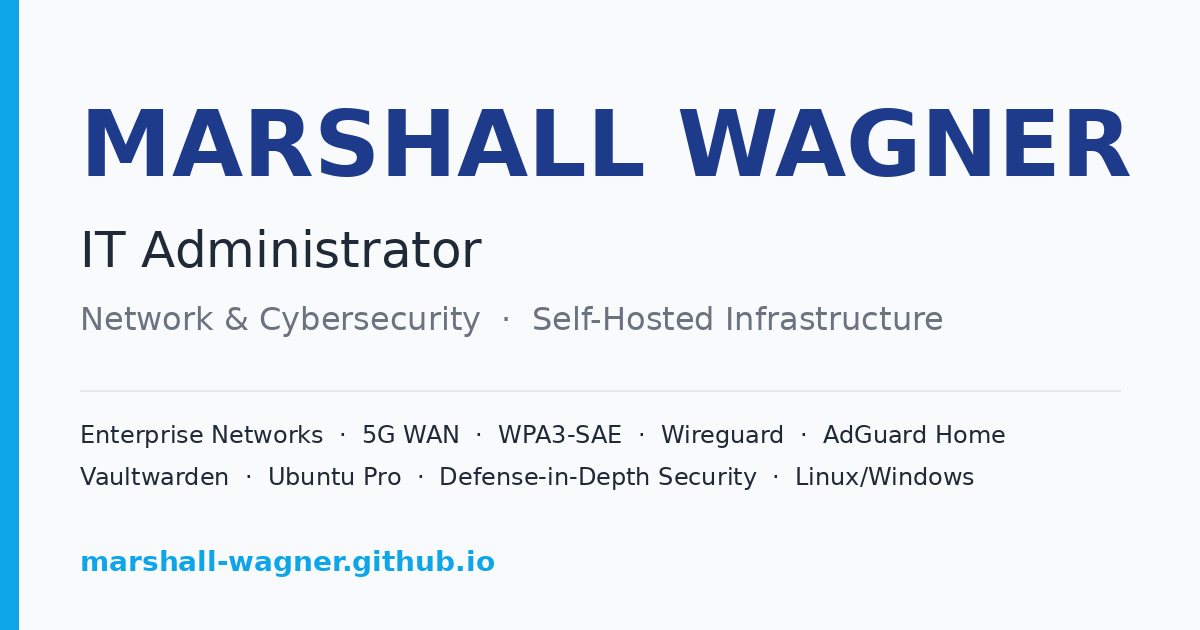
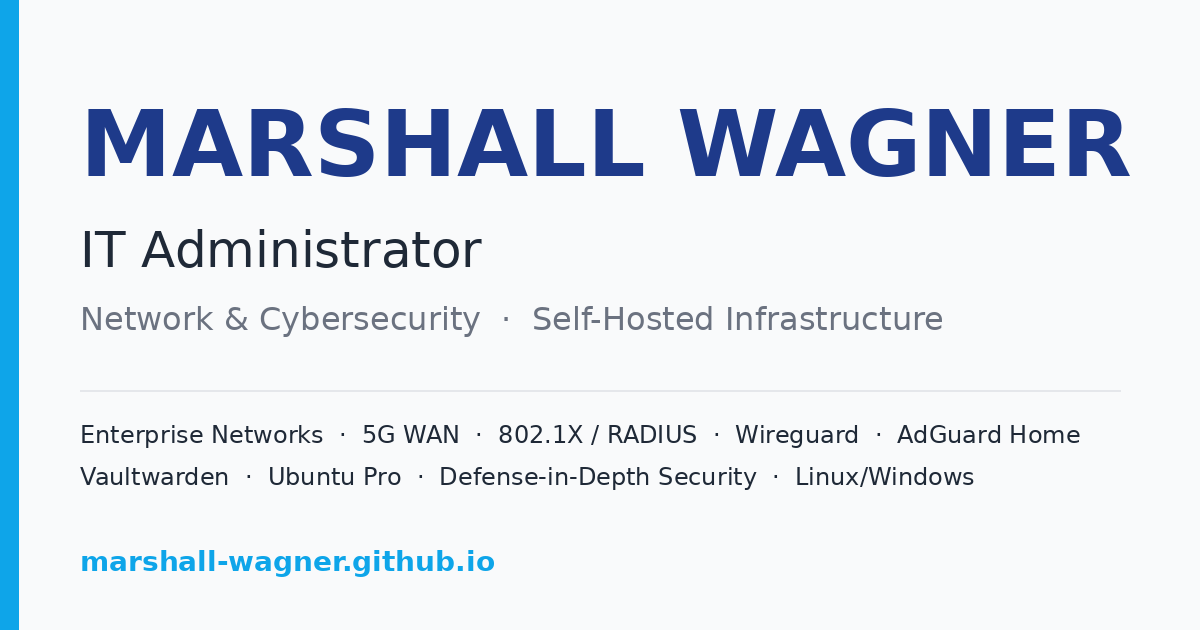
OG preview: swap WPA3-SAE chip for 802.1X/RADIUS, refresh meta description

Changed region(s): [[0.4008, 0.6635, 0.8942, 0.7238]]

diff --git a/index.html b/index.html
@@ -4,17 +4,17 @@
     <meta charset="UTF-8">
     <meta name="viewport" content="width=device-width, initial-scale=1.0">
     <title>Marshall Wagner | IT Professional</title>
-    <meta name="description" content="CompTIA A+ and Network+ certified IT Administrator. Enterprise network architecture, defense-in-depth security hardening, self-hosted Vaultwarden, and ATSC broadcast migration projects.">
+    <meta name="description" content="CompTIA A+ and Network+ certified IT Administrator. Enterprise network architecture, 802.1X/RADIUS Wi-Fi authentication, defense-in-depth security hardening, self-hosted Vaultwarden, and ATSC broadcast migration projects.">
     <meta property="og:type" content="website">
     <meta property="og:url" content="https://marshall-wagner.github.io/">
     <meta property="og:title" content="Marshall Wagner - IT Administrator | Resume &amp; Portfolio">
-    <meta property="og:description" content="CompTIA A+ and Network+ certified IT Administrator. Enterprise network architecture, defense-in-depth security hardening, self-hosted Vaultwarden, and ATSC broadcast migration projects.">
+    <meta property="og:description" content="CompTIA A+ and Network+ certified IT Administrator. Enterprise network architecture, 802.1X/RADIUS Wi-Fi authentication, defense-in-depth security hardening, self-hosted Vaultwarden, and ATSC broadcast migration projects.">
     <meta property="og:image" content="https://marshall-wagner.github.io/images/site-preview.png">
     <meta property="og:image:width" content="1200">
     <meta property="og:image:height" content="630">
     <meta name="twitter:card" content="summary_large_image">
     <meta name="twitter:title" content="Marshall Wagner - IT Administrator | Resume &amp; Portfolio">
-    <meta name="twitter:description" content="CompTIA A+ and Network+ certified IT Administrator. Enterprise network architecture, defense-in-depth security hardening, self-hosted Vaultwarden, and ATSC broadcast migration projects.">
+    <meta name="twitter:description" content="CompTIA A+ and Network+ certified IT Administrator. Enterprise network architecture, 802.1X/RADIUS Wi-Fi authentication, defense-in-depth security hardening, self-hosted Vaultwarden, and ATSC broadcast migration projects.">
     <meta name="twitter:image" content="https://marshall-wagner.github.io/images/site-preview.png">
     <link rel="stylesheet" href="styles.css">
 </head>

diff --git a/generate_og_preview.py b/generate_og_preview.py
@@ -67,7 +67,7 @@ def build(output_path: Path) -> None:
     kw_font = font(24)
     draw.text(
         (left, 420),
-        "Enterprise Networks  ·  5G WAN  ·  WPA3-SAE  ·  Wireguard  ·  AdGuard Home",
+        "Enterprise Networks  ·  5G WAN  ·  802.1X / RADIUS  ·  Wireguard  ·  AdGuard Home",
         fill=TEXT,
         font=kw_font,
     )
